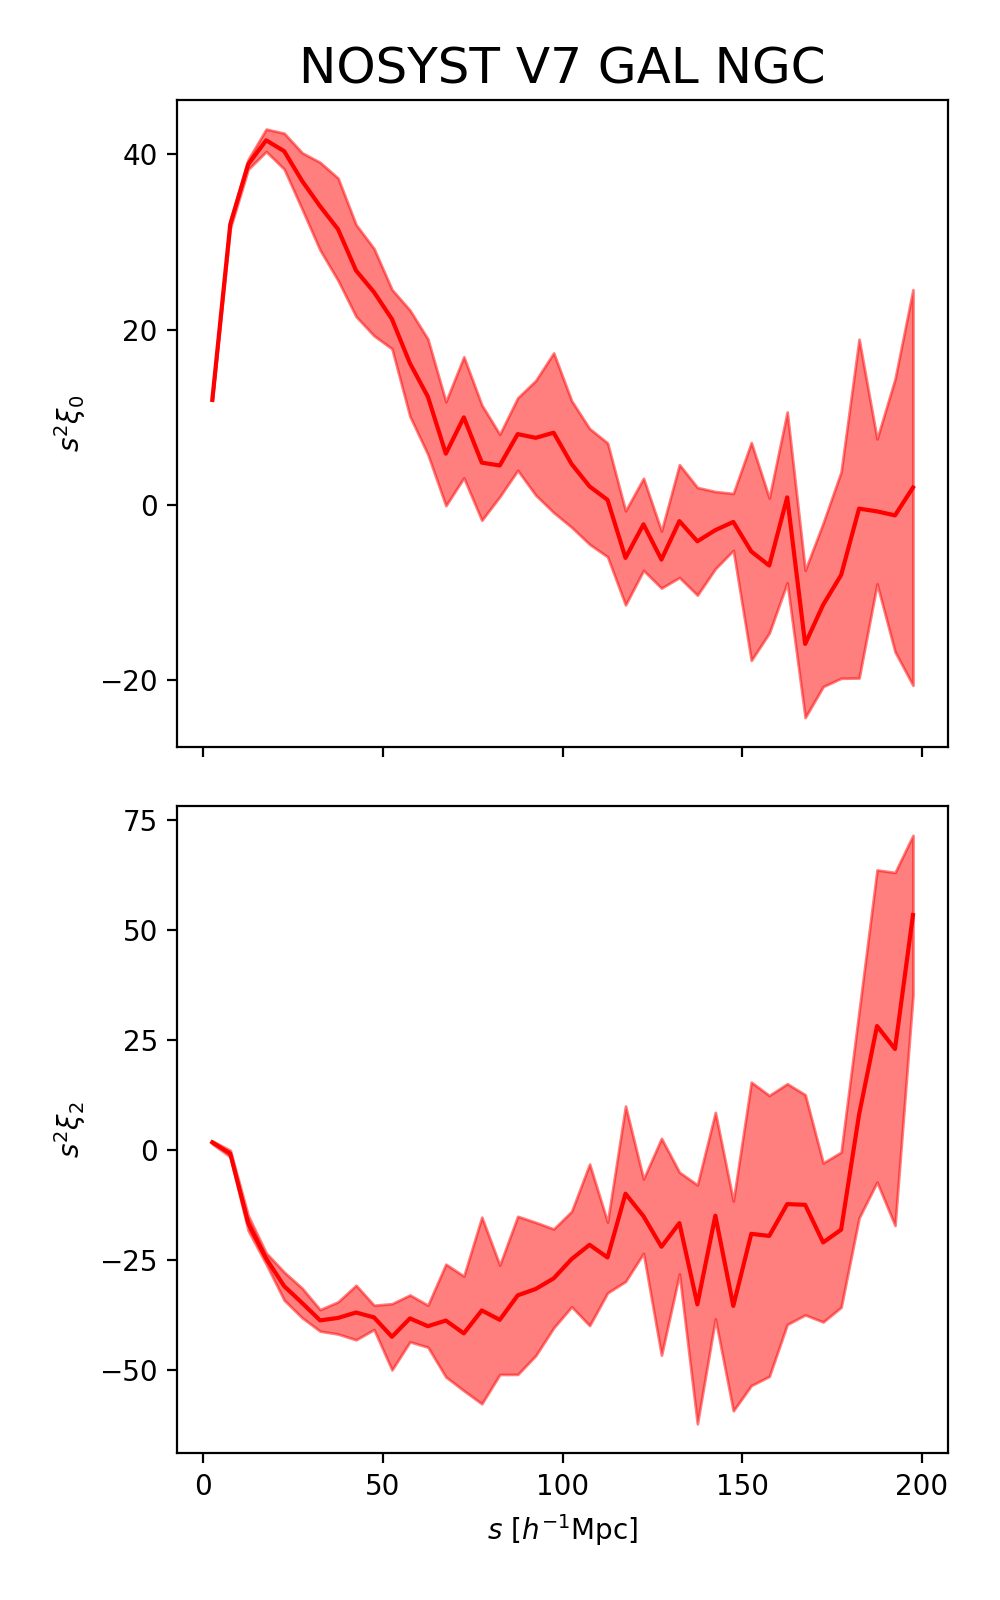
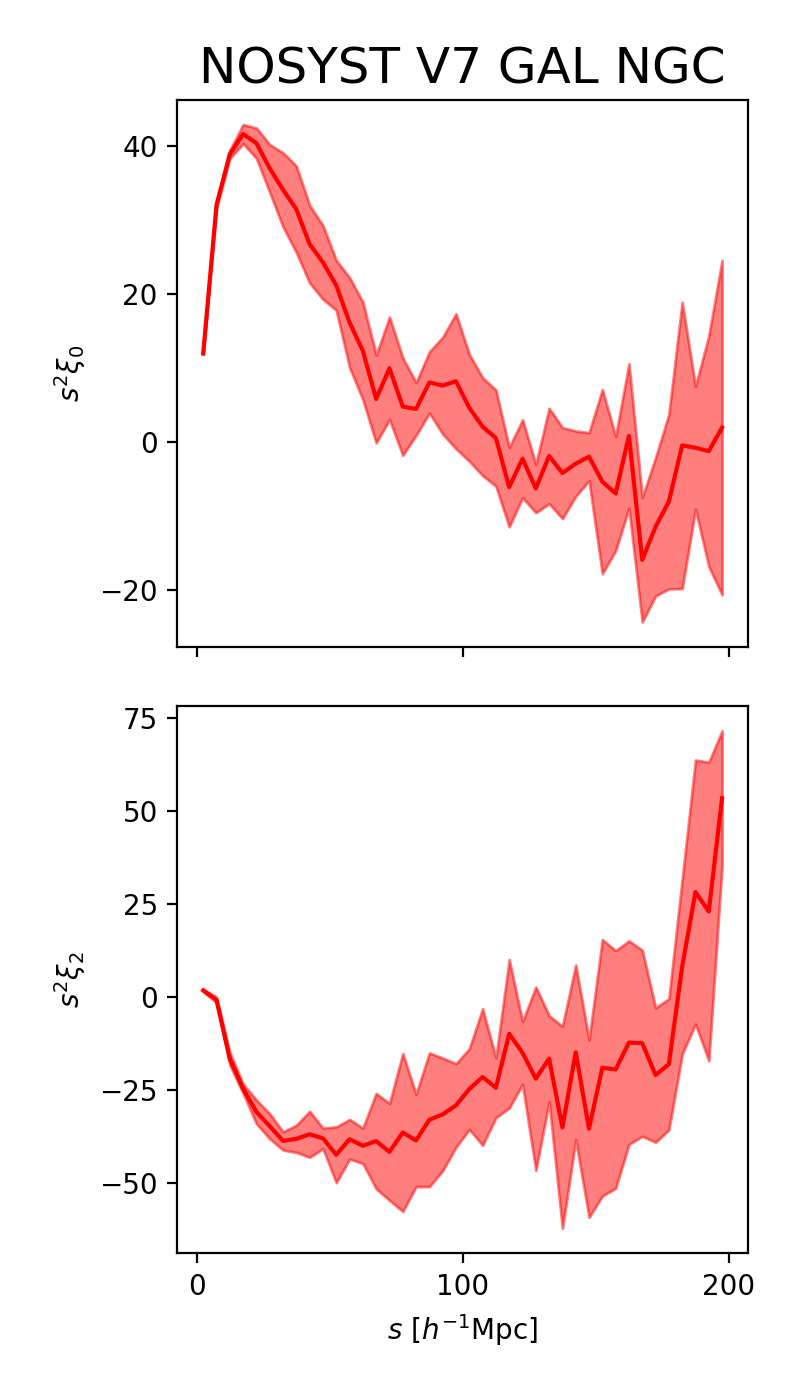
plots

diff --git a/src/misc/plot2pcf.py b/src/misc/plot2pcf.py
@@ -28,7 +28,7 @@ mocks = np.loadtxt(mock_in)
 if len(sys.argv)==4:
 	obs = np.loadtxt(obs_in)
 xdata = mocks[:,0]
-fig, ax = plt.subplots(2,1,figsize = (5, 8), sharex = True)
+fig, ax = plt.subplots(2,1,figsize = (4, 7), sharex = True)
 plt.rcParams.update({'font.size': 15})
 plt.rcParams.update({'axes.labelsize': 'xx-large'})
 for i,a in enumerate(ax):
